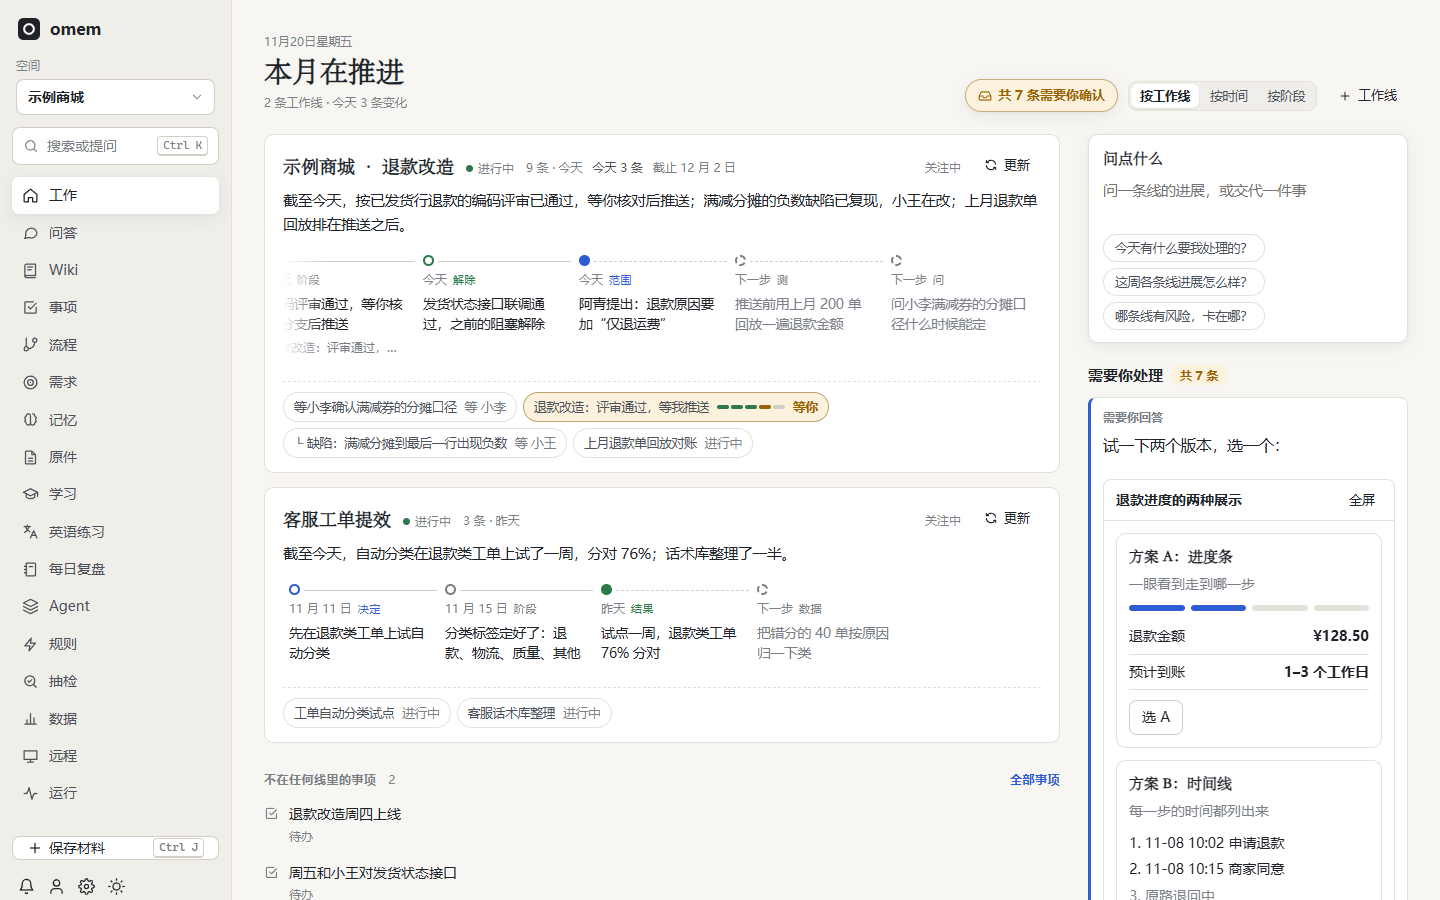
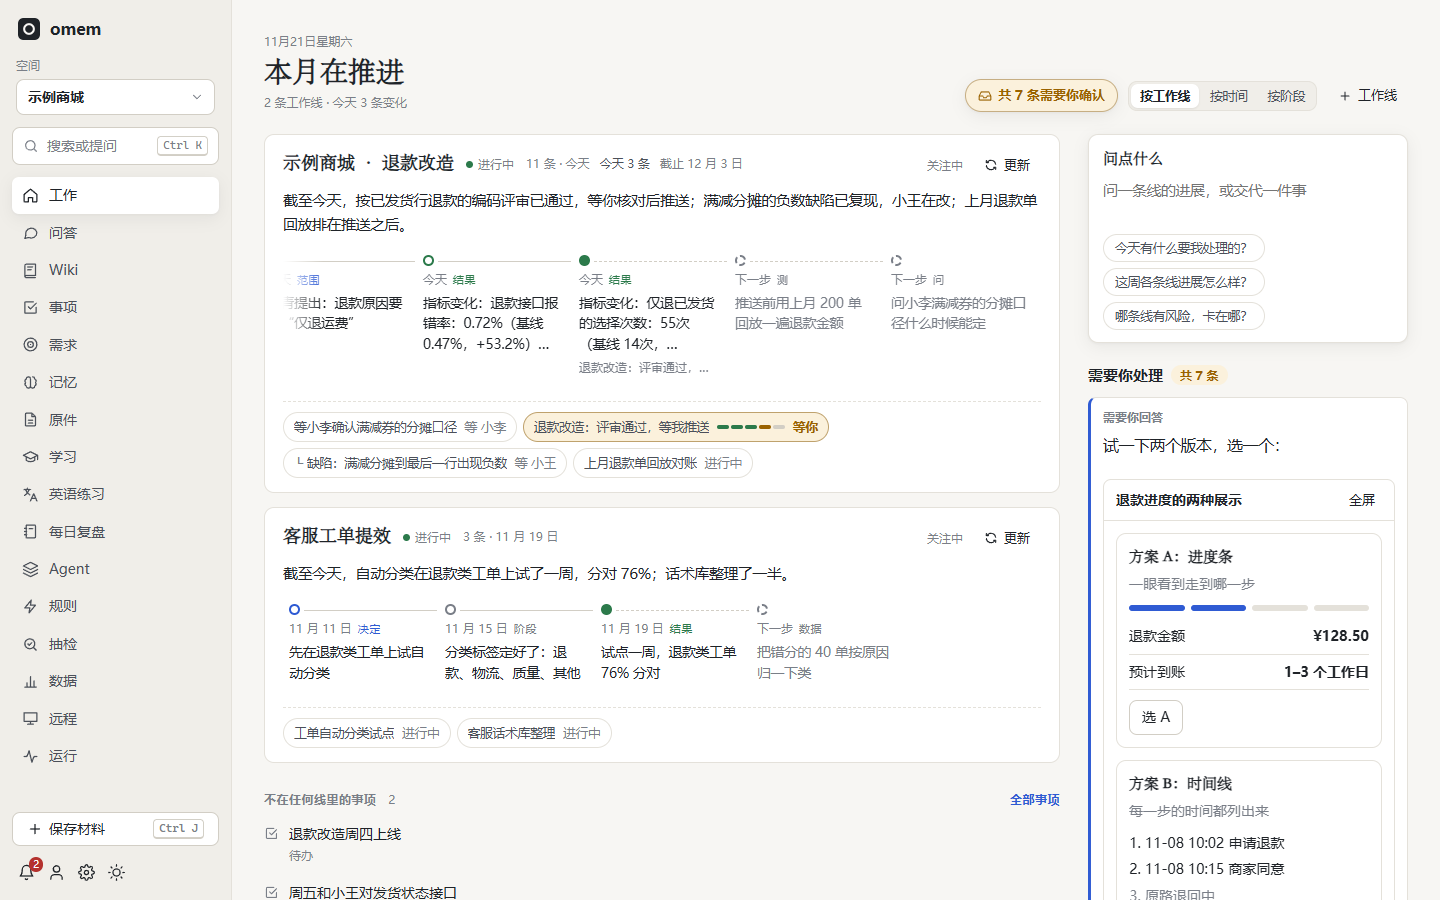
侧栏去掉本人的“流程”，工作线卡片的“关注中”和“更新”对齐
流程看板已经是工作页的“按阶段”，流程定义从看板右上角进，本人的侧栏不再
单列；成员没有工作页，仍在侧栏看看板。

diff --git a/web/src/App.vue b/web/src/App.vue
@@ -39,8 +39,9 @@ const nav = ref<{ to: string; label: string; icon: string; exact?: boolean; memb
   { to: "/ask", label: "问答", icon: "chat", member: true },
   { to: "/wiki", label: "Wiki", icon: "book", member: true },
   { to: "/items", label: "事项", icon: "checkbox", member: true },
-  // Items moving through a flow, by stage: the work page's 按阶段; each opens its own page.
-  { to: "/?view=stage", label: "流程", icon: "branch", member: true },
+  // Items moving through a flow, by stage: for the owner it is the work page's 按阶段 (no entry of its own);
+  // members, who have no work page, keep the board here.
+  { to: "/board", label: "流程", icon: "branch", member: true },
   { to: "/reqs", label: "需求", icon: "target", member: true },
   { to: "/memory", label: "记忆", icon: "brain", member: true },
   { to: "/sources", label: "原件", icon: "file", member: true },
@@ -73,10 +74,10 @@ async function addRemotePage() {
 }
 // Settings → 插件 changed an icon.
 watch(() => state.pluginsChanged, addPluginPages);
-const stageView = computed(() => route.path === "/" && route.query.view === "stage");
+// The owner's flows live on the work page (按阶段, and 流程定义 from there): 工作 stays lit for them.
 const isActive = (to: string, exact?: boolean) =>
-  to === "/" ? (route.path === "/" && !stageView.value) || route.path.startsWith("/work/")
-  : to === "/?view=stage" || to === "/board" ? stageView.value || route.path === "/flows" || route.path === "/board"
+  to === "/" ? route.path === "/" || route.path.startsWith("/work/") || (owner.value && route.path === "/flows")
+  : to === "/board" ? route.path === "/board" || route.path === "/flows"
   : exact ? route.path === to : route.path === to || route.path.startsWith(to + "/") || (to === "/wiki" && route.path.startsWith("/graph"));
 
 function onKey(e: KeyboardEvent) {
@@ -91,8 +92,8 @@ function onKey(e: KeyboardEvent) {
 }
 const owner = computed(() => !state.me || state.me.role === "owner");
 const allowed = (n: { member?: boolean; perm?: string }) => owner.value || n.member || (!!n.perm && !!state.me?.perms.includes(n.perm));
-// The work page is the owner's: members find the flow board on its own page.
-const shownNav = computed(() => nav.value.filter(allowed).map((n) => (n.to === "/?view=stage" && !owner.value ? { ...n, to: "/board" } : n)));
+// The work page is the owner's: only members find the flow board in the nav.
+const shownNav = computed(() => nav.value.filter(allowed).filter((n) => !(n.to === "/board" && owner.value)));
 // Pages someone other than the owner may open: the nav they see, the graph (Wiki), their account.
 const open = computed(() => [...shownNav.value.map((n) => n.to), "/graph", "/account"]);
 // Landing on a page they cannot use (the start page, an old link) goes to 问答.

diff --git a/web/src/components/WorkLine.vue b/web/src/components/WorkLine.vue
@@ -42,8 +42,10 @@ async function refresh() {
         <span v-if="l.dueAt" :class="{ overdue }">截止 {{ dayLabel(l.dueAt) }}</span>
       </span>
       <span class="spacer" />
-      <router-link v-if="l.listen" :to="`/listen/${l.listen.id}`" class="lnk small muted" title="这条线的关注：读它的群和文档">关注中</router-link>
-      <button type="button" class="btn ghost sm" title="现在整理这条线的现状和下一步" @click="refresh"><Icon name="refresh" :size="14" />更新</button>
+      <span class="tools">
+        <router-link v-if="l.listen" :to="`/listen/${l.listen.id}`" class="lnk small muted" title="这条线的关注：读它的群和文档">关注中</router-link>
+        <button type="button" class="btn ghost sm" title="现在整理这条线的现状和下一步" @click="refresh"><Icon name="refresh" :size="14" />更新</button>
+      </span>
     </header>
     <p v-if="l.now" class="now">{{ l.now.text }}<span v-if="stale" class="muted small"> · {{ dayLabel(l.now.at) }}整理</span></p>
     <p v-else class="now muted">还没整理过这条线的现状。<button type="button" class="lnk" @click="refresh">现在整理</button></p>
@@ -65,6 +67,8 @@ async function refresh() {
 <style scoped>
 .line { padding: 16px 18px 14px; display: grid; gap: 10px; min-width: 0; grid-template-columns: minmax(0, 1fr); }
 .head { display: flex; flex-wrap: wrap; align-items: baseline; gap: 4px 12px; min-width: 0; }
+.tools { display: inline-flex; align-items: center; gap: 10px; align-self: center; }
+.tools .lnk { line-height: 1; }
 .name { font-family: var(--serif); font-size: 18px; font-weight: 650; color: var(--ink); line-height: 1.35; overflow-wrap: anywhere; min-width: 0; }
 .name:hover { text-decoration: none; color: var(--accent); }
 .state { display: inline-flex; align-items: center; gap: 5px; font-size: 12px; color: var(--muted); white-space: nowrap; }

diff --git a/README.md b/README.md
@@ -18,7 +18,7 @@
 
 你直接在仓库里提交的代码，助手也会帮你核对属于哪件事，在卡片上由你选择挂到已有事项、新建一件事或不用管。确认挂上以后，还没开始的编码阶段可一并补记完成；首次接入不会翻以前的提交。
 
-流程也支持把已经做过的阶段补记完成、对验证结果逐条签字；同一开始关卡连着直接同意后，会先问你是否以后直接开始，重开或暂停时改回每次问。新内容每天默认最多看 12 批，多的留到明天；事项页的阶段上有“这一段已经做过了”，验证结果每条可以点“看过，对”或“不对”；侧栏“流程”打开工作页的“按阶段”，在走流程的事项按阶段分列，工作页右栏列出流程里等你的；这几个数和开关在 设置 → AI 里。每件走流程的事项在工作页下有自己的页面（事项列表、看板、工作页和飞书进度卡都直接打开它），头部是阶段条和等你的那一段，“流程”标签按文章的写法排：背景、每一段做了什么（截图插在对应的文字后面）、接下来要做的和这件事的来源；等你的卡片下可以写一句话（开始时照这句做、做完了不满意就按这句重做、卡住了就按这句重开），也可以点“在对话里讨论”把这一段带进对话。
+流程也支持把已经做过的阶段补记完成、对验证结果逐条签字；同一开始关卡连着直接同意后，会先问你是否以后直接开始，重开或暂停时改回每次问。新内容每天默认最多看 12 批，多的留到明天；事项页的阶段上有“这一段已经做过了”，验证结果每条可以点“看过，对”或“不对”；工作页的“按阶段”把在走流程的事项按阶段分列（侧栏不再单列“流程”，流程定义从“按阶段”右上角进），工作页右栏列出流程里等你的；这几个数和开关在 设置 → AI 里。每件走流程的事项在工作页下有自己的页面（事项列表、看板、工作页和飞书进度卡都直接打开它），头部是阶段条和等你的那一段，“流程”标签按文章的写法排：背景、每一段做了什么（截图插在对应的文字后面）、接下来要做的和这件事的来源；等你的卡片下可以写一句话（开始时照这句做、做完了不满意就按这句重做、卡住了就按这句重开），也可以点“在对话里讨论”把这一段带进对话。
 
 流程结束时（走完、你停下或事项关闭），事项页上多一块“这一次走得怎样”：各段用了多久、其中等你多久、卡在哪、返工几次、哪些关卡你每次都直接同意。同一份流程又结束满三件，助手会对照这几份回顾看定义要不要改，有站得住的修改就起草一份新定义等你点“启用”，不会直接改。重开前面的阶段时，后面正在做的阶段不会被悄悄停掉，会问你要停下还是继续做。
 

diff --git a/site/features/items.md b/site/features/items.md
@@ -18,7 +18,7 @@
 
 <Shot src="item-flow" caption="事项流程：评审通过，轮到你推送" />
 
-已经做过的阶段可以补记完成，验证结果可以逐条签字；同一开始关卡连着直接同意后，会先问你是否以后直接开始，重开或暂停时改回每次问。新内容每天默认最多看 12 批，多的留到明天；事项页的阶段上有“这一段已经做过了”，验证结果每条可以点“看过，对”或“不对”；侧栏“流程”打开工作页的“按阶段”，在走流程的事项按阶段分列，工作页右栏列出流程里等你的；这几个数和开关在 设置 → AI 里。每件走流程的事项在 [工作线](./work-lines) 下有自己的页面（事项列表、看板、工作页和飞书进度卡都直接打开它），头部是阶段条和等你的那一段，“流程”标签按文章的写法排：背景、每一段做了什么（截图插在对应的文字后面）、接下来要做的和这件事的来源；等你的卡片下可以写一句话（开始时照这句做、做完了不满意就按这句重做、卡住了就按这句重开），也可以点“在对话里讨论”把这一段带进对话。
+已经做过的阶段可以补记完成，验证结果可以逐条签字；同一开始关卡连着直接同意后，会先问你是否以后直接开始，重开或暂停时改回每次问。新内容每天默认最多看 12 批，多的留到明天；事项页的阶段上有“这一段已经做过了”，验证结果每条可以点“看过，对”或“不对”；工作页的“按阶段”把在走流程的事项按阶段分列（侧栏不再单列“流程”，流程定义从“按阶段”右上角进），工作页右栏列出流程里等你的；这几个数和开关在 设置 → AI 里。每件走流程的事项在 [工作线](./work-lines) 下有自己的页面（事项列表、看板、工作页和飞书进度卡都直接打开它），头部是阶段条和等你的那一段，“流程”标签按文章的写法排：背景、每一段做了什么（截图插在对应的文字后面）、接下来要做的和这件事的来源；等你的卡片下可以写一句话（开始时照这句做、做完了不满意就按这句重做、卡住了就按这句重开），也可以点“在对话里讨论”把这一段带进对话。
 
 流程结束时（走完、你停下或事项关闭），事项页上多一块“这一次走得怎样”：各段用了多久、其中等你多久、卡在哪、返工几次、哪些关卡你每次都直接同意。同一份流程又结束满三件，助手会对照这几份回顾看定义要不要改，有站得住的修改就起草一份新定义等你点“启用”，不会直接改。重开前面的阶段时，后面正在做的阶段不会被悄悄停掉，会问你要停下还是继续做。
 

diff --git a/.repo-review/wiki/reference/changes-since-2026-10-13.md b/.repo-review/wiki/reference/changes-since-2026-10-13.md
@@ -24,6 +24,10 @@ updated: 2026-11-20
 - 侧栏“今日”改名“工作”，“流程”打开 `/?view=stage`；本人打开 `/items/:id/flow` 转到 `/work/:id?tab=flow`。事项页改叫“全部事项”，线、有下层的、走流程的事项点开去工作项页。
 - `web/src/lib/markdown.ts`：写好的引用链接 `[文字](src:…#L3-L9)` 不再被“裸引用”的替换拆开（11-19 起带范围的引用显示成半截）。
 
+## 侧栏去掉本人的“流程”；工作线卡片头部对齐（11-21）
+
+- `web/src/App.vue`：本人的侧栏不再有“流程”（就是工作页的“按阶段”，流程定义从看板右上角进），成员仍有 `/board`；在 `/flows` 时高亮“工作”。`web/src/components/WorkLine.vue`：“关注中”和“更新”放进一个居中对齐的 `.tools`。截图 `work-overview` 重拍。
+
 ## 数据页分“工作数据 / omem 自己”两栏（11-21）
 
 - `web/src/views/Insights.vue` 顶部两栏，`?tab=work|omem`；没有 tab 时带报告筛选或明细的链接落到 omem 一栏，否则是工作数据；报告只在 omem 一栏打开时才请求。新组件 `web/src/components/MetricsBoard.vue`（`scope: work | omem`）。

diff --git a/site/features/work-lines.md b/site/features/work-lines.md
@@ -16,7 +16,7 @@
   - 一排点和线：最近 6 条关键变化按时间从左往右排，最新的点是实心的；颜色看得出是什么变化（风险和改期偏暖，定下的范围和决定是蓝色，结果和风险解除是绿色）。末尾的虚线点是还没定的下一步。
   - 下面一排是它的工作项，走流程的带一条小阶段条，等你的那件标黄。
 - **按时间**：所有线的变化按天排，可以按种类（决定、风险、范围、时间、结果、阶段）和来源（群聊、流程、指标、问题、你定的）筛。右边一根一天的柱图，点一根只看那天。
-- **按阶段**：在走流程的事项按走到哪一段分列，就是原来的流程看板。侧栏的“流程”打开的也是这里。
+- **按阶段**：在走流程的事项按走到哪一段分列，就是原来的流程看板，右上角“流程定义”进去写和改流程。侧栏不再单列“流程”。
 
 点一个变化或下一步，从右侧打开详情：原因、风险、下一步和来源，来源点开是引用的原文。
 
